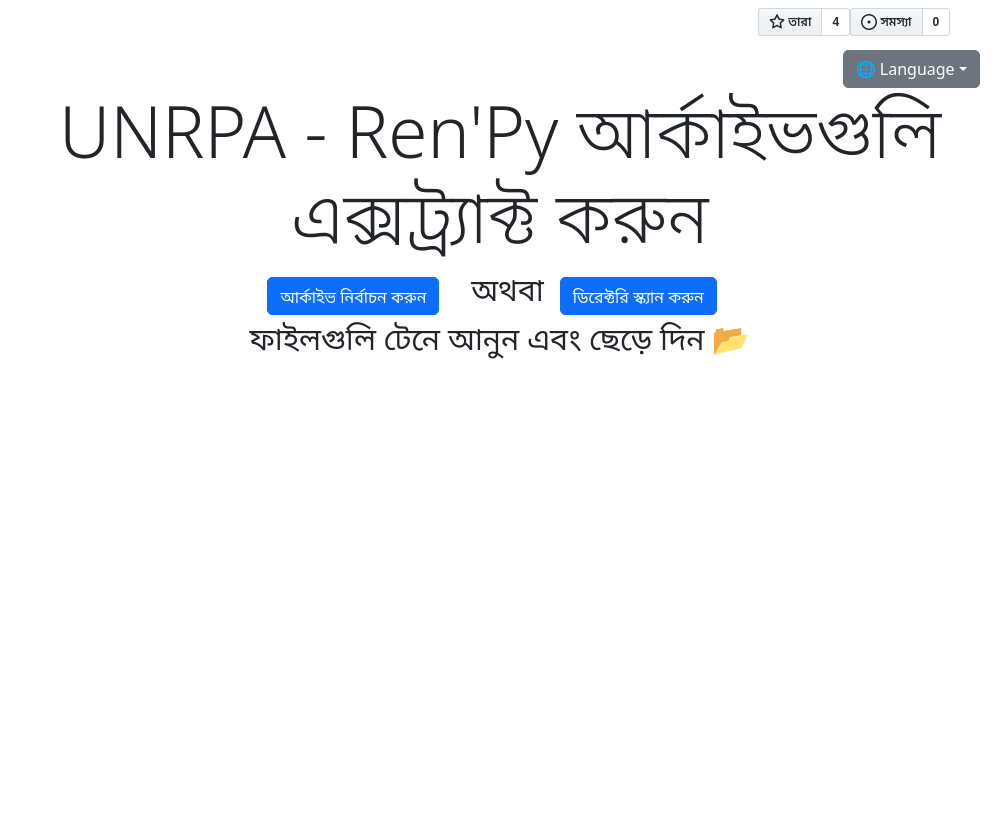
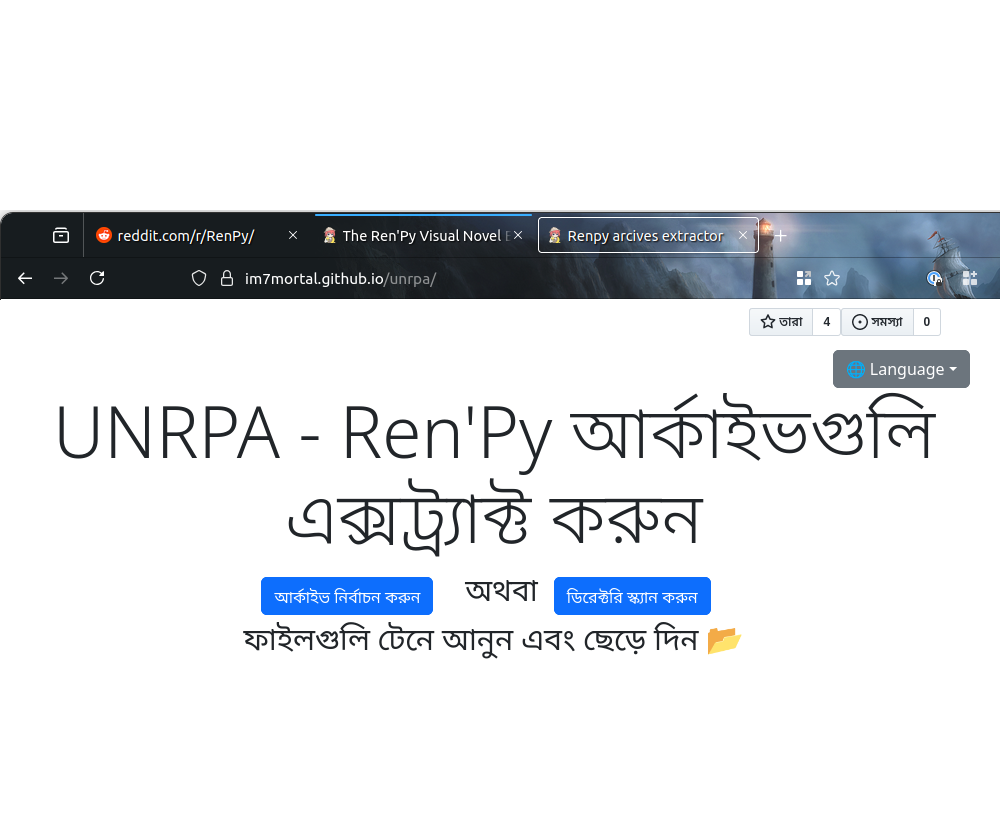
new preview layout generator

diff --git a/tools/screenshotmaker/screenshot.py b/tools/screenshotmaker/screenshot.py
@@ -4,6 +4,7 @@ from selenium.webdriver.chrome.options import Options as ChromeOptions
 from selenium.webdriver.common.by import By
 from selenium.webdriver.support.ui import WebDriverWait
 from selenium.webdriver.support import expected_conditions as EC
+from PIL import Image, ImageDraw
 import time
 
 def get_webdriver(browser):
@@ -26,7 +27,7 @@ def get_webdriver(browser):
 default_width = 1000
 # language drop down is very big; if it's go out of screen it will fail
 language_pick_height = 1200
-screenshot_height = 900
+screenshot_height = 600
 
 # Initialize WebDriver
 driver = get_webdriver('firefox')
@@ -43,6 +44,25 @@ languages = ['hi', 'bn', 'te', 'mr', 'gu', 'pa', 'ta', 'th', 'ur', 'fa', 'ar', '
 
 # Create a WebDriverWait object
 wait = WebDriverWait(driver, 10)
+
+header_img = "template/header.png"
+header = Image.open(header_img)
+
+def add_header_to_screenshot(screenshot_path, header_path, output_path):
+    screenshot = Image.open(screenshot_path)
+
+    width = screenshot.width
+    height = screenshot.height + header.height + 210  # 210 px empty white space
+
+    new_image = Image.new('RGB', (width, height), (255, 255, 255))  # Create new white image
+
+    # Paste the header and screenshot on the new image
+    new_image.paste(header, (0, 210))
+    new_image.paste(screenshot, (0, header.height + 210))
+
+    new_image.save(output_path)
+    print(f'Screenshot saved as {output_path}')
+
 
 # Loop through each language, switch, and take a screenshot
 for lang in languages:
@@ -61,7 +81,9 @@ for lang in languages:
     driver.set_window_size(default_width, screenshot_height)  # Default height can be adjusted as needed
     screenshot_name = f'preview_{lang}.png'
     driver.save_screenshot(screenshot_name)
-    print(f'Screenshot saved as {screenshot_name}')
+
+    # Add header to the screenshot
+    add_header_to_screenshot(screenshot_name, header_img, screenshot_name)
 
     # Restore increased height after taking the screenshot
     driver.set_window_size(default_width, language_pick_height)  # Adjust the height as needed
